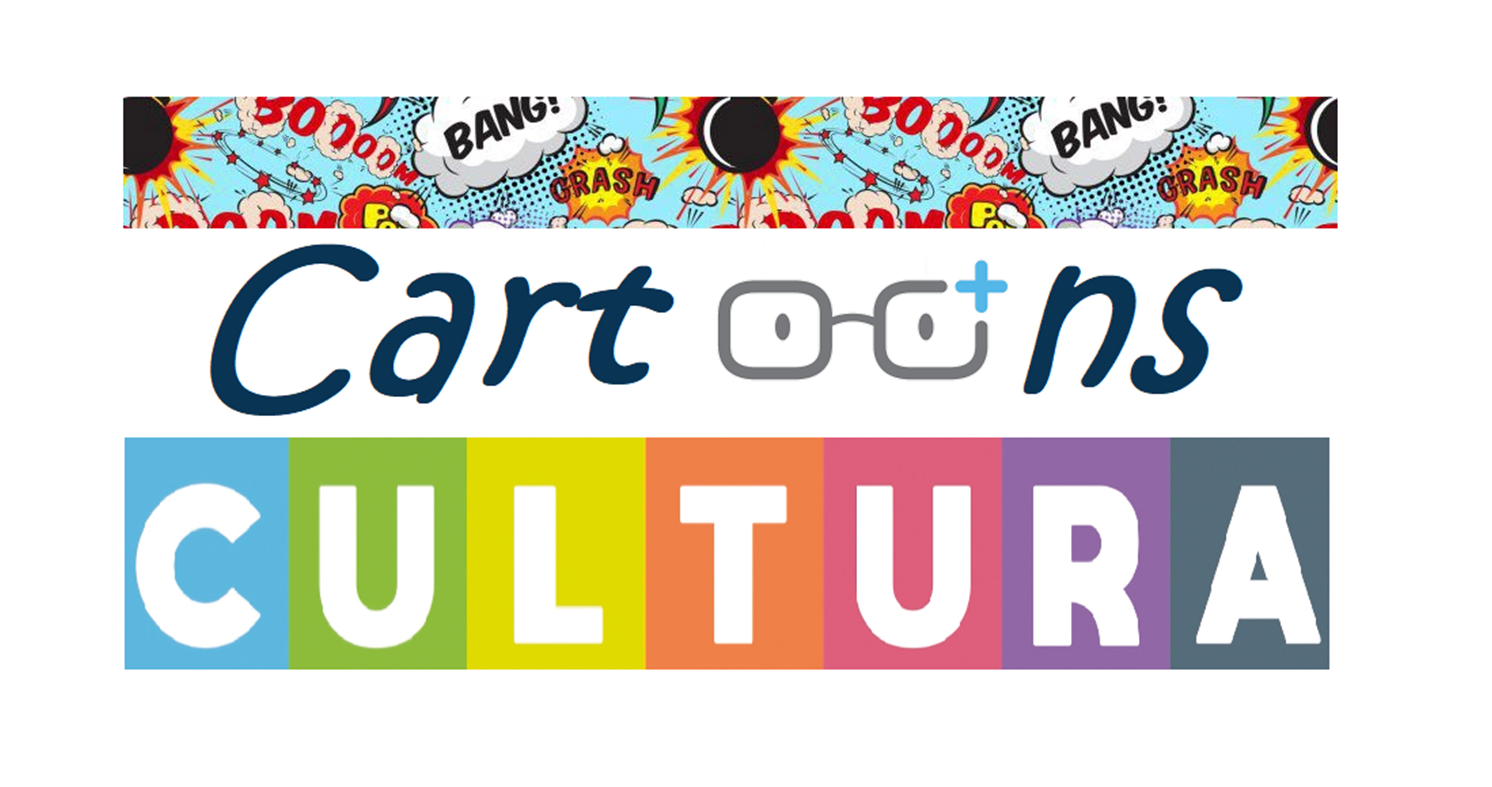
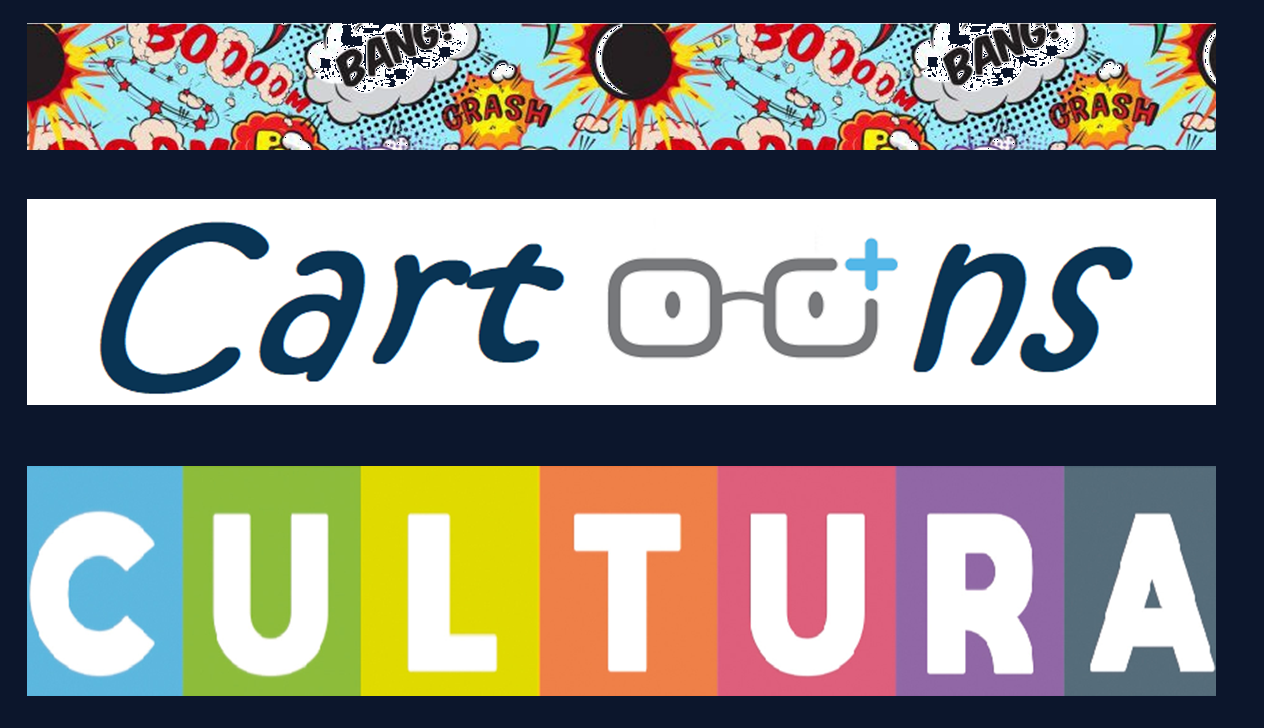
Tela home

diff --git a/home.html b/home.html
@@ -1,32 +1,30 @@
 <html>
+  <head>
+    <head>
+      <meta charset="utf-8">
+      <meta name="viewport" content="width=device-width, initial-scale=1, shrink-to-fit=no">
+      <link rel="stylesheet" href="https://stackpath.bootstrapcdn.com/bootstrap/4.5.0/css/bootstrap.min.css" integrity="sha384-9aIt2nRpC12Uk9gS9baDl411NQApFmC26EwAOH8WgZl5MYYxFfc+NcPb1dKGj7Sk" crossorigin="anonymous">
+      <link rel="stylesheet" href="..\styles.scss">
+      <link href='https://fonts.googleapis.com/css?family=Dosis' rel='stylesheet'>
+      <link href='https://fonts.googleapis.com/css?family=Lato' rel='stylesheet'>
+    </head>
+  </head>
 
-<head>
-    <meta charset="utf-8">
-    <meta name="viewport" content="width=device-width, initial-scale=1, shrink-to-fit=no">
-    <link rel="stylesheet" href="https://stackpath.bootstrapcdn.com/bootstrap/4.5.0/css/bootstrap.min.css" integrity="sha384-9aIt2nRpC12Uk9gS9baDl411NQApFmC26EwAOH8WgZl5MYYxFfc+NcPb1dKGj7Sk" crossorigin="anonymous">
-</head>
+  <title>Cultura Game-Home</title>
 
-<title>
-    Cultura Game-Home
-</title>
+  <body>
 
-
-<body>
+    
     <center>
-        <img src="/home/dougcaval/Desktop/Cultura Game/imgs/cartooncultura.png" class="d-block w-50" alt="400">
+      <img src="imgs/cartooncultura.png" class="container2" width="500px" height="250px"/>
     </center>
-<center>
-    <img src="/home/dougcaval/Desktop/Cultura Game/imgs/realmente.png" class="d-block w-50" alt="400">
-</center>
-<center>
+    <p></p>
 
-
-<a href="pergunta1.html" class="btn btn-primary">Quero Jogar</a>
-<a href="cartoons.html" class="btn btn-info">Ver Cartoons</a>
-</center>  
-
-<center>
-    <img src="/home/dougcaval/Desktop/Cultura Game/imgs/avatarhome.png" class="d-block w-100" alt="400">
-</center>
-</body>
+    <center>
+      <a href="Perguntas/pergunta1.html" class="btn btn-primary">Quero Jogar</a>
+      <a href="cartoons.html" class="btn cartoons">Ver Cartoons</a>
+    </center>
+  
+    
+  </body>
 </html>

diff --git a/styles.scss b/styles.scss
@@ -168,6 +168,12 @@ p {
   width: 60%;
 }
 
+.btn-cartoons {
+  width: 100px;
+  height: 30px;
+  
+}
+
 .btn-info:hover {
   background-color: #05627a;
 }
@@ -212,3 +218,18 @@ p {
  
   
 }
+.container2 {
+  width: 800px;
+  height: 500px;
+  background: #0c172e;
+  display: flex;
+  flex-direction: row;
+  justify-content: center;
+  align-items: center;
+  padding: 20px;
+  }
+  .box {
+  width: 300px;
+  height: 300px;
+  background:transparent;
+  }
